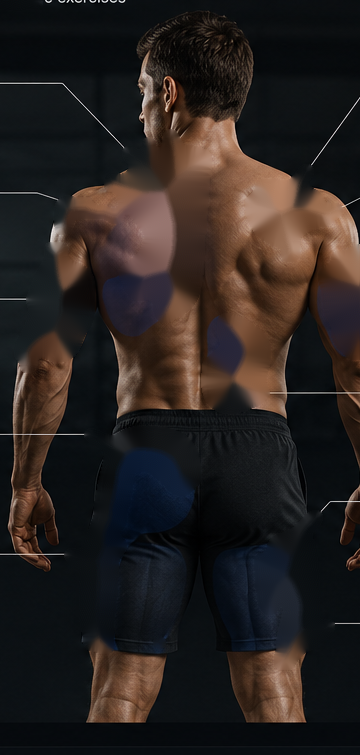
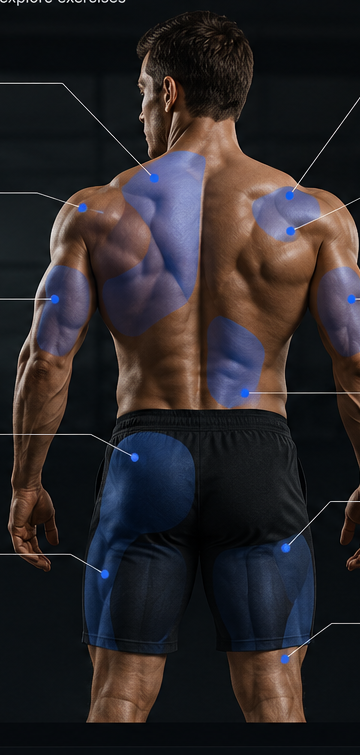
Add files via upload

diff --git a/app/page.jsx b/app/page.jsx
@@ -1,0 +1,119 @@
+'use client';
+import Link from 'next/link';
+import { useMemo, useState } from 'react';
+import { asset, exercises, exercisesByMuscle, muscleById, muscles } from '../data/content';
+
+const nav = [
+  {href:'/', label:'בית', icon:'⌂', active:true},
+  {href:'/exercises', label:'תרגילים', icon:'◧'},
+  {href:'/warmup', label:'חימום', icon:'◷'},
+  {href:'#progress', label:'התקדמות', icon:'▥'},
+  {href:'#profile', label:'פרופיל', icon:'○'}
+];
+
+const frontRegions = [
+  { id:'chest', color:'#ef4444', d:'M156 284 C176 250 201 239 221 243 C250 247 272 269 279 303 C286 339 259 363 222 368 C185 371 153 352 146 324 C143 308 147 295 156 284 Z M222 243 C204 255 194 279 191 309 C189 333 198 353 222 368 C246 354 253 332 251 307 C249 278 240 255 222 243 Z' },
+  { id:'shoulders', color:'#38bdf8', d:'M95 271 C96 247 118 225 145 216 C160 212 174 225 181 244 C170 267 165 291 151 304 C128 309 105 297 95 271 Z M258 246 C265 226 281 213 300 218 C326 225 352 248 362 273 C351 298 329 310 306 304 C292 292 282 267 258 246 Z' },
+  { id:'biceps', color:'#a855f7', d:'M83 306 C104 301 126 311 134 331 C143 358 144 393 132 417 C121 438 101 452 86 439 C69 421 66 388 72 359 C76 338 77 321 83 306 Z M350 306 C329 301 307 311 299 331 C290 358 289 393 301 417 C312 438 332 452 347 439 C364 421 367 388 361 359 C357 338 356 321 350 306 Z' },
+  { id:'triceps', color:'#f97316', d:'M129 314 C147 330 154 367 149 400 C146 420 134 438 116 446 C129 412 127 361 116 321 C120 316 124 314 129 314 Z M304 314 C286 330 279 367 284 400 C287 420 299 438 317 446 C304 412 306 361 317 321 C313 316 309 314 304 314 Z' },
+  { id:'abs', color:'#facc15', d:'M187 357 C208 365 230 365 250 357 C260 398 263 453 264 504 C251 526 236 543 219 553 C200 543 184 526 172 504 C172 452 176 397 187 357 Z M199 378 L239 378 M194 421 L245 421 M190 464 L249 464' },
+  { id:'quads', color:'#22c55e', d:'M139 584 C162 575 190 574 210 580 C216 631 216 699 205 750 C191 765 170 771 151 762 C134 719 129 641 139 584 Z M225 580 C246 574 274 575 296 584 C307 641 302 719 284 762 C266 771 244 765 230 750 C220 699 219 631 225 580 Z' },
+  { id:'calves', color:'#14b8a6', d:'M146 758 C166 752 189 752 204 760 C200 817 199 883 190 932 C172 941 151 938 137 925 C126 873 131 809 146 758 Z M231 760 C246 752 269 752 289 758 C304 809 309 873 298 925 C284 938 263 941 245 932 C236 883 235 817 231 760 Z' }
+];
+
+const backRegions = [
+  { id:'back', color:'#22c55e', d:'M132 96 C151 75 171 65 181 65 C194 65 216 77 230 98 C222 124 218 148 222 167 C246 199 258 261 254 320 C250 365 226 411 181 446 C136 411 111 365 106 320 C101 260 114 199 139 167 C143 145 140 123 132 96 Z' },
+  { id:'lats', color:'#06b6d4', d:'M73 186 C94 169 117 160 137 163 C150 202 153 279 142 340 C130 363 113 383 94 398 C71 370 64 323 66 273 C67 235 67 206 73 186 Z M288 186 C267 169 244 160 224 163 C211 202 208 279 219 340 C231 363 248 383 267 398 C290 370 297 323 295 273 C294 235 294 206 288 186 Z' },
+  { id:'glutes', color:'#f97316', d:'M108 426 C131 413 162 421 181 449 C199 421 230 413 253 426 C265 459 263 496 250 518 C226 539 197 551 181 552 C164 551 135 539 111 518 C98 496 96 459 108 426 Z' },
+  { id:'hamstrings', color:'#a855f7', d:'M101 520 C125 524 156 536 176 548 C177 604 173 671 166 705 C152 725 127 737 108 724 C92 677 90 594 101 520 Z M260 520 C236 524 205 536 185 548 C184 604 188 671 195 705 C209 725 234 737 253 724 C269 677 271 594 260 520 Z' },
+  { id:'calves', color:'#14b8a6', d:'M108 720 C126 710 151 703 170 705 C166 721 164 738 160 752 C144 763 125 760 111 746 C105 738 104 729 108 720 Z M253 720 C235 710 210 703 191 705 C195 721 197 738 201 752 C217 763 236 760 250 746 C256 738 257 729 253 720 Z' }
+];
+
+function BodyMap({ side, selected, setSelected }) {
+  const regions = side === 'front' ? frontRegions : backRegions;
+  const viewBox = side === 'front' ? '0 0 435 1030' : '0 0 360 755';
+  const img = side === 'front' ? '/body-front.png' : '/body-back.png';
+
+  return (
+    <div className={`body-wrap ${side}`}>
+      <img className="body-photo" src={asset(img)} alt={side === 'front' ? 'מפת שרירים קדמית' : 'מפת שרירים אחורית'} />
+      <svg className="body-overlay anatomy-overlay" viewBox={viewBox} preserveAspectRatio="xMidYMid meet" aria-label="מפת שרירים לחיצה">
+        {regions.map((r, index) => {
+          const isActive = selected === r.id;
+          return (
+            <path
+              key={`${r.id}-${index}`}
+              d={r.d}
+              fill={isActive ? `${r.color}cc` : `${r.color}70`}
+              stroke={isActive ? '#ffffff' : r.color}
+              strokeWidth={isActive ? 5 : 2.25}
+              className={`muscle-region anatomy-region ${isActive ? 'active' : ''}`}
+              onClick={() => setSelected(r.id)}
+            />
+          );
+        })}
+      </svg>
+    </div>
+  );
+}
+
+export default function HomePage(){
+  const [side, setSide] = useState('front');
+  const [selected, setSelected] = useState('chest');
+  const selectedMuscle = muscleById(selected) || muscles[0];
+  const list = useMemo(() => exercisesByMuscle(selected).slice(0, 5), [selected]);
+  const hero = list[0] || exercises[0];
+
+  const switchSide = (value) => {
+    setSide(value);
+    setSelected(value === 'front' ? 'chest' : 'back');
+  };
+
+  return (
+    <main className="mobile-app">
+      <header className="appbar">
+        <div className="brand logo-brand">
+          <img src={asset('/oc-planche-logo.png')} alt="Osher Calisthenics" />
+          <div><b>OSHER</b><small>CALISTHENICS</small></div>
+        </div>
+        <div className="stats"><b>🔥 12</b><b>⬢ 1,250</b></div>
+      </header>
+
+      <section className="hero-card blue-hero">
+        <div><small>Own Your Strength</small><h1>בחר שריר<br/>והתחל אימון</h1></div>
+        <Link href="/exercises">ספריית תרגילים</Link>
+      </section>
+
+      <section className="map-card">
+        <div className="card-head">
+          <div><h2>מפת השרירים</h2><p>לחץ על אזור שריר צבעוני כדי לראות תרגילים מתאימים.</p></div>
+          <div className="seg"><button className={side==='front'?'on':''} onClick={()=>switchSide('front')}>קדמי</button><button className={side==='back'?'on':''} onClick={()=>switchSide('back')}>אחורי</button></div>
+        </div>
+        <BodyMap side={side} selected={selected} setSelected={setSelected} />
+      </section>
+
+      <section className="sheet-card" style={{'--accent': selectedMuscle.color}}>
+        <div className="handle" />
+        <div className="sheet-title"><div><small>אזור נבחר</small><h2>{selectedMuscle.name}</h2></div><span>{list.length} תרגילים</span></div>
+        <p>{selectedMuscle.description}</p>
+        <div className="exercise-list compact">
+          {list.map(ex => <Link key={ex.id} href={`/exercises/${ex.id}`} className="exercise-row">
+            <img src={asset(ex.image)} alt={ex.name}/>
+            <div><b>{ex.name}</b><small>{ex.short}</small></div>
+            <em>{ex.difficulty}</em>
+          </Link>)}
+        </div>
+        <Link className="primary-btn" href="/exercises">הצג את כל התרגילים</Link>
+      </section>
+
+      <section className="featured-card">
+        <img src={asset(hero.image)} alt={hero.name}/>
+        <div><small>תרגיל מומלץ</small><h3>{hero.name}</h3><p>{hero.short}</p></div>
+      </section>
+
+      <nav className="bottom-nav">
+        {nav.map(item => <Link key={item.label} href={item.href} className={item.active?'active':''}><span>{item.icon}</span><small>{item.label}</small></Link>)}
+      </nav>
+    </main>
+  );
+}

diff --git a/data/content.js b/data/content.js
@@ -2,7 +2,7 @@ export const asset = (path) => path;
 
 export const muscles = [
   { id:'chest', name:'חזה', latin:'Pectorals', side:'front', color:'#ef4444', description:'תרגילי דחיפה לחזה, יד אחורית וכתפיים.' },
-  { id:'shoulders', name:'כתפיים', latin:'Deltoids', side:'front', color:'#38bdf8', description:'חיזוק כתפיים, יציבות ודחיפה מעל הראש.' },
+  { id:'shoulders', name:'כתפיים', latin:'Deltoids', side:'front', color:'#3b82f6', description:'חיזוק כתפיים, יציבות ודחיפה מעל הראש.' },
   { id:'triceps', name:'יד אחורית', latin:'Triceps', side:'front', color:'#f97316', description:'תרגילים לנעילת מרפקים ודחיפה חזקה.' },
   { id:'biceps', name:'יד קדמית', latin:'Biceps', side:'front', color:'#a855f7', description:'תרגילי משיכה וכוח ביד קדמית.' },
   { id:'abs', name:'בטן', latin:'Abdominals', side:'front', color:'#facc15', description:'ליבה, יציבות ושליטה בגוף.' },
@@ -15,34 +15,28 @@ export const muscles = [
 ];
 
 const img = (id) => `/exercises/${id}.jpg`;
+const vid = (id) => `/videos/${id}.mp4`;
 
 export const exercises = [
-  { id:'push-up', name:'שכיבות סמיכה', muscle:'chest', secondary:['triceps','shoulders'], difficulty:'מתחיל', equipment:'ללא ציוד', image:img('push-up'), short:'תרגיל בסיסי לחיזוק החזה, היד האחורית והכתפיים.', instructions:['מקם ידיים מעט רחב מרוחב הכתפיים.','שמור על גוף ישר מהראש עד העקבים.','רד בשליטה עד שהחזה קרוב לרצפה.','דחוף חזרה למעלה בלי לשקוע באגן.'], mistakes:['אגן נמוך מדי','מרפקים פתוחים מדי','טווח תנועה חלקי'] },
-  { id:'incline-push-up', name:'שכיבות סמיכה בשיפוע', muscle:'chest', secondary:['triceps','shoulders'], difficulty:'מתחיל', equipment:'ספסל / מדרגה', image:img('incline-push-up'), short:'גרסה קלה יותר לשכיבות סמיכה, מושלמת למתחילים.', instructions:['הנח ידיים על משטח מוגבה.','שמור על קו גוף ישר.','רד בשליטה עד שהחזה קרוב למשטח.'], mistakes:['כיפוף גב','חוסר שליטה בירידה'] },
-  { id:'decline-push-up', name:'שכיבות סמיכה בירידה', muscle:'chest', secondary:['shoulders','triceps'], difficulty:'בינוני', equipment:'ספסל / מדרגה', image:img('decline-push-up'), short:'וריאציה שמעמיסה יותר על החזה העליון והכתפיים.', instructions:['הנח רגליים על משטח מוגבה.','מקם ידיים מעט רחב מהכתפיים.','רד בשליטה.'], mistakes:['שקיעת אגן','נעילת מרפקים חזקה מדי'] },
-  { id:'diamond-push-up', name:'שכיבות סמיכה יהלום', muscle:'triceps', secondary:['chest','shoulders'], difficulty:'בינוני', equipment:'ללא ציוד', image:img('diamond-push-up'), short:'דגש חזק על היד האחורית ונעילת מרפקים.', instructions:['קרב כפות ידיים לצורת יהלום.','שמור מרפקים קרובים לגוף.','רד בשליטה.'], mistakes:['עומס על מפרקי הידיים','פתיחת מרפקים'] },
-  { id:'wide-push-up', name:'שכיבות סמיכה רחבות', muscle:'chest', secondary:['shoulders'], difficulty:'בינוני', equipment:'ללא ציוד', image:img('wide-push-up'), short:'וריאציה שמדגישה יותר את החזה.', instructions:['מקם ידיים רחב מהכתפיים.','שמור גוף ישר.','רד בשליטה.'], mistakes:['ידיים רחבות מדי','כתפיים מתוחות מדי'] },
-  { id:'dips', name:'מקבילים', muscle:'triceps', secondary:['chest','shoulders'], difficulty:'בינוני', equipment:'מקבילים', image:img('dips'), short:'תרגיל חזק לחזה, כתפיים ויד אחורית.', instructions:['אחוז במקבילים ויישר ידיים.','רד עד כיפוף נוח במרפקים.','דחוף חזרה למעלה.'], mistakes:['ירידה עמוקה מדי','כתפיים קורסות'] },
-  { id:'pike-push-up', name:'פייק פוש אפ', muscle:'shoulders', secondary:['triceps'], difficulty:'בינוני', equipment:'ללא ציוד', image:img('pike-push-up'), short:'תרגיל כתפיים כהכנה לעמידת ידיים.', instructions:['הרם אגן למעלה.','העבר משקל לכתפיים.','רד עם הראש לכיוון הרצפה.'], mistakes:['גב עגול','מרפקים פתוחים'] },
-  { id:'pseudo-planche', name:'פסאודו פלאנץ׳', muscle:'chest', secondary:['shoulders','triceps','abs'], difficulty:'מתקדם', equipment:'ללא ציוד', image:img('pseudo-planche'), short:'דחיפה מתקדמת להכנה לפלאנץ׳.', instructions:['העבר כתפיים קדימה מעל הידיים.','שמור גוף ישר.','בצע ירידה קצרה ומבוקרת.'], mistakes:['העברת משקל לא מספיקה','שקיעת אגן'] },
-  { id:'archer-push-up', name:'שכיבות סמיכה קשת', muscle:'chest', secondary:['triceps','shoulders'], difficulty:'מתקדם', equipment:'ללא ציוד', image:img('archer-push-up'), short:'שלב מתקדם בדרך לשכיבה ביד אחת.', instructions:['פתח ידיים רחב.','העבר משקל לצד אחד.','שמור יד שנייה כמעט ישרה.'], mistakes:['תנועה מהירה מדי','קריסת כתף'] },
-  { id:'pull-up', name:'מתח', muscle:'back', secondary:['biceps','lats'], difficulty:'בינוני', equipment:'מוט מתח', image:img('pull-up'), short:'תרגיל בסיסי לגב וליד קדמית.', instructions:['אחוז במוט מעט רחב מהכתפיים.','משוך חזה לכיוון המוט.','רד בשליטה לתלייה מלאה.'], mistakes:['שימוש בתנופה','חצי טווח תנועה'] },
-  { id:'australian-pull-up', name:'חתירה אוסטרלית', muscle:'back', secondary:['biceps','lats'], difficulty:'מתחיל', equipment:'מוט מתח', image:img('australian-pull-up'), short:'תרגיל משיכה מצוין למתחילים.', instructions:['שכב מתחת למוט נמוך.','שמור גוף ישר.','משוך חזה למוט.'], mistakes:['אגן נמוך','משיכה קצרה'] },
-  { id:'chin-up', name:'מתח בסופינציה', muscle:'biceps', secondary:['back','lats'], difficulty:'בינוני', equipment:'מוט מתח', image:img('chin-up'), short:'מתח עם דגש חזק יותר על יד קדמית.', instructions:['אחוז כשהכפות פונות אליך.','משוך את הגוף למעלה.','רד בשליטה.'], mistakes:['תנופה','כתפיים מכווצות'] },
-  { id:'bodyweight-row', name:'חתירה במשקל גוף', muscle:'back', secondary:['biceps'], difficulty:'מתחיל', equipment:'מוט נמוך / טבעות', image:img('bodyweight-row'), short:'חיזוק גב ושכמות.', instructions:['החזק גוף ישר.','משוך חזה לידיים.','כווץ שכמות בסוף התנועה.'], mistakes:['משיכה עם צוואר','אגן צונח'] },
-  { id:'negative-pull-up', name:'מתח שלילי', muscle:'back', secondary:['biceps','lats'], difficulty:'מתחיל', equipment:'מוט מתח', image:img('negative-pull-up'), short:'דרך יעילה לבנות כוח למתח ראשון.', instructions:['קפוץ או עלה למצב עליון.','רד לאט במשך 3–5 שניות.','חזור למעלה בעזרת קפיצה.'], mistakes:['ירידה מהירה מדי','חוסר שליטה'] },
-  { id:'dead-hang', name:'תלייה פסיבית', muscle:'back', secondary:['lats'], difficulty:'מתחיל', equipment:'מוט מתח', image:img('dead-hang'), short:'שיפור אחיזה, כתפיים והכנה למתח.', instructions:['אחוז במוט.','תלה את הגוף בצורה רגועה.','שמור כתפיים פעילות קלות.'], mistakes:['כאב כתפיים','אחיזה חלשה מדי'] },
-  { id:'face-pull', name:'משיכת פנים', muscle:'back', secondary:['shoulders'], difficulty:'בינוני', equipment:'גומייה / טבעות', image:img('face-pull'), short:'חיזוק שכמות וכתף אחורית.', instructions:['אחוז בגומייה.','משוך לכיוון הפנים.','כווץ שכמות.'], mistakes:['מרפקים נמוכים מדי','משיכה עם גב תחתון'] },
-  { id:'plank', name:'פלאנק', muscle:'abs', secondary:['shoulders'], difficulty:'מתחיל', equipment:'ללא ציוד', image:img('plank'), short:'תרגיל בסיסי לליבה ויציבות.', instructions:['מרפקים מתחת לכתפיים.','כווץ בטן וישבן.','שמור גוף ישר.'], mistakes:['אגן גבוה מדי','אגן נמוך מדי'] },
-  { id:'hollow-hold', name:'הולו הולד', muscle:'abs', secondary:[], difficulty:'בינוני', equipment:'ללא ציוד', image:img('hollow-hold'), short:'תרגיל שליטה לגוף חלול.', instructions:['שכב על הגב.','הרם שכמות ורגליים.','הצמד גב תחתון לרצפה.'], mistakes:['גב תחתון מתנתק','עצירת נשימה'] },
-  { id:'leg-raises', name:'הרמות רגליים', muscle:'abs', secondary:[], difficulty:'בינוני', equipment:'ללא ציוד', image:img('leg-raises'), short:'חיזוק בטן תחתונה ושליטה באגן.', instructions:['שכב על הגב.','הרם רגליים בשליטה.','הורד בלי להקשית גב.'], mistakes:['תנופה','כאב גב תחתון'] },
-  { id:'squat', name:'סקוואט', muscle:'quads', secondary:['glutes','hamstrings'], difficulty:'מתחיל', equipment:'ללא ציוד', image:img('squat'), short:'תרגיל בסיסי לרגליים.', instructions:['עמוד ברוחב כתפיים.','שלח אגן לאחור.','רד ושמור ברכיים בכיוון האצבעות.'], mistakes:['ברכיים קורסות פנימה','עקבים מתרוממים'] },
-  { id:'lunge', name:'לאנג׳', muscle:'quads', secondary:['glutes','hamstrings'], difficulty:'מתחיל', equipment:'ללא ציוד', image:img('lunge'), short:'תרגיל חד־צדדי לרגליים.', instructions:['צעד קדימה.','רד עד כיפוף נוח.','חזור דרך הרגל הקדמית.'], mistakes:['צעד קצר מדי','ברך קורסת פנימה'] },
-  { id:'bulgarian-squat', name:'סקוואט בולגרי', muscle:'quads', secondary:['glutes','hamstrings'], difficulty:'בינוני', equipment:'ספסל / כיסא', image:img('bulgarian-squat'), short:'תרגיל רגליים חד־צדדי מאתגר.', instructions:['הנח רגל אחורית על ספסל.','רד בשליטה.','דחוף דרך הרגל הקדמית.'], mistakes:['צעד קצר מדי','ברך נופלת פנימה'] },
-  { id:'calf-raise', name:'עליות תאומים', muscle:'calves', secondary:[], difficulty:'מתחיל', equipment:'ללא ציוד', image:img('calf-raise'), short:'חיזוק תאומים וקרסול.', instructions:['עמוד ישר.','עלה לקצות האצבעות.','רד בשליטה.'], mistakes:['תנועה מהירה','טווח קצר'] },
-  { id:'glute-bridge', name:'גשר ישבן', muscle:'glutes', secondary:['hamstrings'], difficulty:'מתחיל', equipment:'ללא ציוד', image:img('glute-bridge'), short:'הפעלת ישבן ושרשרת אחורית.', instructions:['שכב על הגב.','כופף ברכיים.','הרם אגן וכווץ ישבן.'], mistakes:['הקשת גב','דחיפה מהגב במקום מהישבן'] },
-  { id:'superman', name:'סופרמן', muscle:'back', secondary:['glutes'], difficulty:'מתחיל', equipment:'ללא ציוד', image:img('superman'), short:'חיזוק גב תחתון ושרירי יציבה.', instructions:['שכב על הבטן.','הרם ידיים ורגליים.','החזק קצר וחזור.'], mistakes:['הרמה גבוהה מדי','לחץ בצוואר'] },
-  { id:'handstand-hold', name:'החזקת עמידת ידיים', muscle:'shoulders', secondary:['abs','triceps'], difficulty:'מתקדם', equipment:'קיר', image:img('handstand-hold'), short:'תרגיל שליטה וכתפיים.', instructions:['היכנס לעמידת ידיים מול קיר.','דחוף את הרצפה.','שמור גוף ארוך ומתוח.'], mistakes:['גב מקושת','כתפיים רפויות'] }
+  { id:'push-up', name:'שכיבות סמיכה', muscle:'chest', secondary:['triceps','shoulders'], difficulty:'מתחיל', equipment:'ללא ציוד', image:img('push-up'), video:vid('push-up'), short:'תרגיל בסיסי לחיזוק החזה, היד האחורית והכתפיים.', instructions:['מקם ידיים מעט רחב מרוחב הכתפיים.','שמור על גוף ישר מהראש עד העקבים.','רד בשליטה עד שהחזה קרוב לרצפה.','דחוף חזרה למעלה בלי לשקוע באגן.'], mistakes:['אגן נמוך מדי','מרפקים פתוחים מדי','טווח תנועה חלקי'] },
+  { id:'incline-push-up', name:'שכיבות סמיכה בשיפוע', muscle:'chest', secondary:['triceps','shoulders'], difficulty:'מתחיל', equipment:'ספסל / מדרגה', image:img('incline-push-up'), video:vid('incline-push-up'), short:'גרסה קלה יותר לשכיבות סמיכה, מושלמת למתחילים.', instructions:['הנח ידיים על משטח מוגבה.','שמור על קו גוף ישר.','רד בשליטה עד שהחזה קרוב למשטח.'], mistakes:['כיפוף גב','חוסר שליטה בירידה'] },
+  { id:'decline-push-up', name:'שכיבות סמיכה בירידה', muscle:'chest', secondary:['shoulders','triceps'], difficulty:'בינוני', equipment:'ספסל / מדרגה', image:img('decline-push-up'), video:vid('decline-push-up'), short:'וריאציה שמעמיסה יותר על החזה העליון והכתפיים.', instructions:['הנח רגליים על משטח מוגבה.','מקם ידיים מעט רחב מהכתפיים.','רד בשליטה.'], mistakes:['שקיעת אגן','נעילת מרפקים חזקה מדי'] },
+  { id:'diamond-push-up', name:'שכיבות סמיכה יהלום', muscle:'triceps', secondary:['chest','shoulders'], difficulty:'בינוני', equipment:'ללא ציוד', image:img('diamond-push-up'), video:vid('diamond-push-up'), short:'דגש חזק על היד האחורית ונעילת מרפקים.', instructions:['קרב כפות ידיים לצורת יהלום.','שמור מרפקים קרובים לגוף.','רד בשליטה.'], mistakes:['עומס על מפרקי הידיים','פתיחת מרפקים'] },
+  { id:'wide-push-up', name:'שכיבות סמיכה רחבות', muscle:'chest', secondary:['shoulders'], difficulty:'בינוני', equipment:'ללא ציוד', image:img('wide-push-up'), video:vid('wide-push-up'), short:'וריאציה שמדגישה יותר את החזה.', instructions:['מקם ידיים רחב מהכתפיים.','שמור גוף ישר.','רד בשליטה.'], mistakes:['ידיים רחבות מדי','כתפיים מתוחות מדי'] },
+  { id:'dips', name:'מקבילים', muscle:'triceps', secondary:['chest','shoulders'], difficulty:'בינוני', equipment:'מקבילים', image:img('dips'), video:vid('dips'), short:'תרגיל חזק לחזה, כתפיים ויד אחורית.', instructions:['אחוז במקבילים ויישר ידיים.','רד עד כיפוף נוח במרפקים.','דחוף חזרה למעלה.'], mistakes:['ירידה עמוקה מדי','כתפיים קורסות'] },
+  { id:'pike-push-up', name:'פייק פוש אפ', muscle:'shoulders', secondary:['triceps'], difficulty:'בינוני', equipment:'ללא ציוד', image:img('pike-push-up'), video:vid('pike-push-up'), short:'תרגיל כתפיים כהכנה לעמידת ידיים.', instructions:['הרם אגן למעלה.','העבר משקל לכתפיים.','רד עם הראש לכיוון הרצפה.'], mistakes:['גב עגול','מרפקים פתוחים'] },
+  { id:'pseudo-planche', name:'פסאודו פלאנץ׳', muscle:'chest', secondary:['shoulders','triceps','abs'], difficulty:'מתקדם', equipment:'ללא ציוד', image:img('pseudo-planche'), video:vid('pseudo-planche'), short:'דחיפה מתקדמת להכנה לפלאנץ׳.', instructions:['העבר כתפיים קדימה מעל הידיים.','שמור גוף ישר.','בצע ירידה קצרה ומבוקרת.'], mistakes:['העברת משקל לא מספיקה','שקיעת אגן'] },
+  { id:'archer-push-up', name:'שכיבות סמיכה קשת', muscle:'chest', secondary:['triceps','shoulders'], difficulty:'מתקדם', equipment:'ללא ציוד', image:img('archer-push-up'), video:vid('archer-push-up'), short:'שלב מתקדם בדרך לשכיבה ביד אחת.', instructions:['פתח ידיים רחב.','העבר משקל לצד אחד.','שמור יד שנייה כמעט ישרה.'], mistakes:['תנועה מהירה מדי','קריסת כתף'] },
+  { id:'pull-up', name:'מתח', muscle:'back', secondary:['biceps','lats'], difficulty:'בינוני', equipment:'מוט מתח', image:img('pull-up'), video:vid('pull-up'), short:'תרגיל בסיסי לגב וליד קדמית.', instructions:['אחוז במוט מעט רחב מהכתפיים.','משוך חזה לכיוון המוט.','רד בשליטה לתלייה מלאה.'], mistakes:['שימוש בתנופה','חצי טווח תנועה'] },
+  { id:'australian-pull-up', name:'חתירה אוסטרלית', muscle:'back', secondary:['biceps','lats'], difficulty:'מתחיל', equipment:'מוט מתח', image:img('australian-pull-up'), video:vid('australian-pull-up'), short:'תרגיל משיכה מצוין למתחילים.', instructions:['שכב מתחת למוט נמוך.','שמור גוף ישר.','משוך חזה למוט.'], mistakes:['אגן נמוך','משיכה קצרה'] },
+  { id:'chin-up', name:'מתח בסופינציה', muscle:'biceps', secondary:['back','lats'], difficulty:'בינוני', equipment:'מוט מתח', image:img('chin-up'), video:vid('chin-up'), short:'מתח עם דגש חזק יותר על יד קדמית.', instructions:['אחוז כשהכפות פונות אליך.','משוך את הגוף למעלה.','רד בשליטה.'], mistakes:['תנופה','כתפיים מכווצות'] },
+  { id:'plank', name:'פלאנק', muscle:'abs', secondary:['shoulders'], difficulty:'מתחיל', equipment:'ללא ציוד', image:img('plank'), video:vid('plank'), short:'תרגיל בסיסי לליבה ויציבות.', instructions:['מרפקים מתחת לכתפיים.','כווץ בטן וישבן.','שמור גוף ישר.'], mistakes:['אגן גבוה מדי','אגן נמוך מדי'] },
+  { id:'squat', name:'סקוואט', muscle:'quads', secondary:['glutes','hamstrings'], difficulty:'מתחיל', equipment:'ללא ציוד', image:img('squat'), video:vid('squat'), short:'תרגיל בסיסי לרגליים.', instructions:['עמוד ברוחב כתפיים.','שלח אגן לאחור.','רד ושמור ברכיים בכיוון האצבעות.'], mistakes:['ברכיים קורסות פנימה','עקבים מתרוממים'] },
+  { id:'lunge', name:'לאנג׳', muscle:'quads', secondary:['glutes','hamstrings'], difficulty:'מתחיל', equipment:'ללא ציוד', image:img('lunge'), video:vid('lunge'), short:'תרגיל חד־צדדי לרגליים.', instructions:['צעד קדימה.','רד עד כיפוף נוח.','חזור דרך הרגל הקדמית.'], mistakes:['צעד קצר מדי','ברך קורסת פנימה'] },
+  { id:'calf-raise', name:'עליות תאומים', muscle:'calves', secondary:[], difficulty:'מתחיל', equipment:'ללא ציוד', image:img('calf-raise'), video:vid('calf-raise'), short:'חיזוק תאומים וקרסול.', instructions:['עמוד ישר.','עלה לקצות האצבעות.','רד בשליטה.'], mistakes:['תנועה מהירה','טווח קצר'] },
+  { id:'glute-bridge', name:'גשר ישבן', muscle:'glutes', secondary:['hamstrings'], difficulty:'מתחיל', equipment:'ללא ציוד', image:img('glute-bridge'), video:vid('glute-bridge'), short:'הפעלת ישבן ושרשרת אחורית.', instructions:['שכב על הגב.','כופף ברכיים.','הרם אגן וכווץ ישבן.'], mistakes:['הקשת גב','דחיפה מהגב במקום מהישבן'] },
+  { id:'superman', name:'סופרמן', muscle:'back', secondary:['glutes'], difficulty:'מתחיל', equipment:'ללא ציוד', image:img('superman'), video:vid('superman'), short:'חיזוק גב תחתון ושרירי יציבה.', instructions:['שכב על הבטן.','הרם ידיים ורגליים.','החזק קצר וחזור.'], mistakes:['הרמה גבוהה מדי','לחץ בצוואר'] },
+  { id:'handstand-hold', name:'החזקת עמידת ידיים', muscle:'shoulders', secondary:['abs','triceps'], difficulty:'מתקדם', equipment:'קיר', image:img('handstand-hold'), video:vid('handstand-hold'), short:'תרגיל שליטה וכתפיים.', instructions:['היכנס לעמידת ידיים מול קיר.','דחוף את הרצפה.','שמור גוף ארוך ומתוח.'], mistakes:['גב מקושת','כתפיים רפויות'] }
 ];
 
 export const exercisesByMuscle = (muscle) => exercises.filter(e => e.muscle === muscle || e.secondary.includes(muscle));

diff --git a/app/exercises/page.jsx b/app/exercises/page.jsx
@@ -1,0 +1,35 @@
+'use client';
+
+import Link from 'next/link';
+import { useMemo, useState } from 'react';
+import { asset, exercises, muscles } from '../../data/content';
+
+const nav = [
+  {href:'/',label:'בית',icon:'🏠'},
+  {href:'/exercises',label:'תרגילים',icon:'💪',active:true},
+  {href:'/warmup',label:'חימום',icon:'⏱️'},
+  {href:'#progress',label:'התקדמות',icon:'📈'},
+  {href:'#profile',label:'פרופיל',icon:'👤'}
+];
+
+export default function ExercisesPage(){
+  const [q,setQ]=useState('');
+  const [muscle,setMuscle]=useState('all');
+  const filtered=useMemo(()=>exercises.filter(e=>{
+    const s=q.trim();
+    return (!s || `${e.name} ${e.short} ${e.equipment}`.includes(s)) && (muscle==='all' || e.muscle===muscle || e.secondary.includes(muscle));
+  }),[q,muscle]);
+
+  return <main className="exercise-page">
+    <header className="page-head"><Link href="/" className="back">‹</Link><div><h1>תרגילים</h1><p>בחר תרגיל, קרא הסבר קצר ופתח עמוד פירוט.</p></div></header>
+    <div className="search"><input value={q} onChange={e=>setQ(e.target.value)} placeholder="חיפוש תרגיל..." /></div>
+    <div className="chips"><button className={muscle==='all'?'on':''} onClick={()=>setMuscle('all')}>הכל</button>{muscles.map(m=><button key={m.id} className={muscle===m.id?'on':''} onClick={()=>setMuscle(m.id)}>{m.name}</button>)}</div>
+    <section className="exercise-list-page">
+      {filtered.map(ex=><Link key={ex.id} href={`/exercises/${ex.id}`} className="exercise-compact-card">
+        <img src={asset(ex.image)} alt={ex.name}/>
+        <div className="exercise-copy"><div className="exercise-title-line"><h2>{ex.name}</h2><span>{ex.difficulty}</span></div><p>{ex.short}</p><small>{ex.equipment}</small></div>
+      </Link>)}
+    </section>
+    <nav className="bottom-nav">{nav.map(item => <Link key={item.label} href={item.href} className={item.active?'active':''}><span>{item.icon}</span><small>{item.label}</small></Link>)}</nav>
+  </main>
+}

diff --git a/app/exercises/[id]/page.jsx b/app/exercises/[id]/page.jsx
@@ -1,0 +1,19 @@
+import Link from 'next/link';
+import { asset, exercises, getExercise, muscles } from '../../../data/content';
+
+export function generateStaticParams(){return exercises.map(e=>({id:e.id}))}
+
+export default async function ExerciseDetails({params}){
+  const {id}=await params;
+  const ex=getExercise(id)||exercises[0];
+  const primary=muscles.find(m=>m.id===ex.muscle)?.name||'';
+  const secondary=ex.secondary.map(id=>muscles.find(m=>m.id===id)?.name).filter(Boolean).join(' • ');
+  return <main className="detail-page">
+    <header className="page-head"><Link href="/exercises" className="back">‹</Link><div><h1>{ex.name}</h1><p>{primary}{secondary?` • ${secondary}`:''}</p></div></header>
+    <section className="video-card"><video controls playsInline preload="metadata" poster={asset(ex.image)} src={asset(ex.video||'')} /><div><span>{ex.difficulty}</span><span>{ex.equipment}</span></div></section>
+    <section className="content-card"><h2>על התרגיל</h2><p>{ex.short}</p></section>
+    <section className="content-card"><h2>אופן ביצוע</h2><ol>{ex.instructions.map((i,n)=><li key={n}>{i}</li>)}</ol></section>
+    <section className="content-card danger"><h2>טעויות נפוצות</h2><ul>{ex.mistakes.map((i,n)=><li key={n}>{i}</li>)}</ul></section>
+    <Link href="/" className="primary-btn sticky">חזרה לבית</Link>
+  </main>
+}

diff --git a/app/layout.jsx b/app/layout.jsx
@@ -1,0 +1,10 @@
+import './globals.css';
+
+export const metadata = {
+  title: 'Osher Calisthenics',
+  description: 'אפליקציית קליסטניקס בעברית'
+};
+
+export default function RootLayout({ children }) {
+  return <html lang="he" dir="rtl"><body>{children}</body></html>;
+}

diff --git a/app/globals.css b/app/globals.css
@@ -1,4 +1,7 @@
-*{box-sizing:border-box} html{direction:rtl} body{margin:0;background:#050b14;color:#fff;font-family:Arial,'Helvetica Neue',sans-serif} a{color:inherit;text-decoration:none} button{font-family:inherit}
-.mobile-app,.page-shell{min-height:100svh;background:radial-gradient(circle at top,#10213a 0,#050b14 52%,#03070c 100%);padding:18px 14px 94px;max-width:520px;margin:0 auto;overflow-x:hidden}.appbar{display:flex;align-items:center;justify-content:space-between;margin:2px 0 16px}.brand{display:flex;align-items:center;gap:10px}.brand span{width:42px;height:42px;border-radius:14px;background:linear-gradient(135deg,#39ff14,#0b66ff);display:grid;place-items:center;font-weight:900;color:#00130a}.brand b{display:block;font-size:18px}.brand small{display:block;font-size:10px;color:#9fb1c9;letter-spacing:1.5px}.stats{display:flex;gap:12px;align-items:center;color:#dbeafe}.hero-card,.map-card,.sheet-card,.featured-card,.exercise-card,.info-card,.timer-card{background:rgba(9,18,31,.9);border:1px solid rgba(91,122,162,.25);box-shadow:0 20px 60px rgba(0,0,0,.25);border-radius:28px}.hero-card{padding:22px;display:flex;align-items:center;justify-content:space-between;margin-bottom:14px}.hero-card small{color:#39ff14}.hero-card h1{margin:5px 0 0;font-size:28px;line-height:1.12}.hero-card a{background:#39ff14;color:#03100a;border-radius:16px;padding:12px 14px;font-weight:800}.map-card{padding:16px;margin-bottom:14px}.card-head{display:flex;justify-content:space-between;gap:12px;align-items:flex-start}.card-head h2{font-size:26px;margin:0}.card-head p{margin:6px 0 0;color:#9fb1c9;line-height:1.45}.seg{display:flex;background:#111c2b;border:1px solid rgba(255,255,255,.12);border-radius:16px;padding:4px;direction:ltr}.seg button{border:0;background:transparent;color:#aab8ca;padding:9px 14px;border-radius:12px;font-weight:700}.seg .on{background:#39ff14;color:#041006}.body-wrap{position:relative;margin:14px auto 0;width:min(100%,340px);line-height:0}.body-photo{display:block;width:100%;height:auto;border-radius:20px;object-fit:contain;background:#07111d}.body-overlay{position:absolute;inset:0;width:100%;height:100%;pointer-events:none}.muscle-region{pointer-events:auto;cursor:pointer;mix-blend-mode:screen;transition:.18s ease;filter:drop-shadow(0 0 7px rgba(255,255,255,.16))}.muscle-region:hover{opacity:.95;filter:drop-shadow(0 0 12px rgba(57,255,20,.45))}.sheet-card{padding:14px 14px 18px;border-color:color-mix(in srgb,var(--accent) 42%,rgba(91,122,162,.25));margin-bottom:14px}.handle{width:42px;height:5px;border-radius:50px;background:#2d3d52;margin:0 auto 12px}.sheet-title{display:flex;justify-content:space-between;align-items:center;gap:10px}.sheet-title small{color:#9fb1c9}.sheet-title h2{margin:3px 0 0;font-size:26px;color:var(--accent)}.sheet-title span{background:rgba(57,255,20,.12);color:#39ff14;border:1px solid rgba(57,255,20,.25);border-radius:999px;padding:8px 10px;font-size:12px}.sheet-card p{color:#c2cce0;margin:10px 0}.exercise-list{display:grid;gap:9px}.exercise-row{display:grid;grid-template-columns:84px 1fr auto;gap:12px;align-items:center;background:#0d1725;border:1px solid rgba(255,255,255,.08);border-radius:18px;padding:8px}.exercise-row img{width:84px;height:64px;object-fit:cover;border-radius:13px}.exercise-row b{display:block;font-size:15px}.exercise-row small{display:-webkit-box;-webkit-line-clamp:2;-webkit-box-orient:vertical;overflow:hidden;color:#aab8ca;font-size:12px;line-height:1.35}.exercise-row em{font-style:normal;color:#39ff14;font-size:12px}.primary-btn{display:block;text-align:center;background:#39ff14;color:#031006;border-radius:18px;padding:14px 18px;font-weight:900;margin-top:12px}.featured-card{display:grid;grid-template-columns:112px 1fr;gap:12px;padding:10px;align-items:center;margin-bottom:16px}.featured-card img{width:112px;height:88px;object-fit:cover;border-radius:18px}.featured-card small{color:#39ff14}.featured-card h3{margin:3px 0;font-size:20px}.featured-card p{margin:0;color:#aab8ca;font-size:13px}.bottom-nav{position:fixed;right:0;left:0;bottom:0;z-index:50;display:flex;justify-content:space-around;gap:4px;padding:10px 8px calc(10px + env(safe-area-inset-bottom));background:rgba(4,10,18,.92);border-top:1px solid rgba(255,255,255,.1);backdrop-filter:blur(18px)}.bottom-nav a{display:flex;flex-direction:column;align-items:center;gap:4px;color:#91a0b7;min-width:58px;font-size:24px}.bottom-nav small{font-size:11px}.bottom-nav .active{color:#39ff14;text-shadow:0 0 15px rgba(57,255,20,.6)}
+*{box-sizing:border-box} html{direction:rtl} body{margin:0;background:#061323;color:#fff;font-family:Arial,'Helvetica Neue',sans-serif} a{color:inherit;text-decoration:none} button{font-family:inherit}
+.mobile-app,.page-shell{min-height:100svh;background:radial-gradient(circle at top,#123e67 0,#071b2f 35%,#03070c 100%);padding:18px 14px 94px;max-width:520px;margin:0 auto;overflow-x:hidden}.home-blue{background:linear-gradient(180deg,#0b2e4f 0,#071b2f 42%,#03070c 100%)}.appbar{display:flex;align-items:center;justify-content:space-between;margin:2px 0 16px}.brand{display:flex;align-items:center;gap:10px}.brand span{width:42px;height:42px;border-radius:14px;background:linear-gradient(135deg,#39ff14,#0b66ff);display:grid;place-items:center;font-weight:900;color:#00130a}.new-brand img{width:54px;height:54px;border-radius:16px;object-fit:cover;box-shadow:0 0 20px rgba(57,255,20,.22)}.brand b{display:block;font-size:18px}.brand small{display:block;font-size:10px;color:#9fb1c9;letter-spacing:1.5px}.stats{display:flex;gap:12px;align-items:center;color:#dbeafe}.hero-card,.map-card,.sheet-card,.featured-card,.exercise-card,.info-card,.timer-card{background:rgba(7,20,37,.88);border:1px solid rgba(91,142,210,.25);box-shadow:0 20px 60px rgba(0,0,0,.25);border-radius:28px}.hero-card{padding:22px;display:flex;align-items:center;justify-content:space-between;margin-bottom:14px}.home-hero{background:linear-gradient(135deg,rgba(17,62,103,.96),rgba(7,27,47,.96));border-color:rgba(57,255,20,.18)}.hero-card small{color:#39ff14}.hero-card h1{margin:5px 0 0;font-size:28px;line-height:1.12}.hero-card a{background:#39ff14;color:#03100a;border-radius:16px;padding:12px 14px;font-weight:800;box-shadow:0 0 22px rgba(57,255,20,.32)}.map-card{padding:16px;margin-bottom:14px}.home-map-card{background:linear-gradient(180deg,rgba(9,31,55,.96),rgba(5,14,26,.96))}.card-head{display:flex;justify-content:space-between;gap:12px;align-items:flex-start}.card-head h2{font-size:26px;margin:0}.card-head p{margin:6px 0 0;color:#9fb1c9;line-height:1.45}.seg{display:flex;background:#0b1a2d;border:1px solid rgba(255,255,255,.12);border-radius:16px;padding:4px;direction:ltr}.seg button{border:0;background:transparent;color:#aab8ca;padding:9px 14px;border-radius:12px;font-weight:700}.seg .on{background:#39ff14;color:#041006;box-shadow:0 0 18px rgba(57,255,20,.42)}.body-wrap{position:relative;margin:14px auto 0;width:min(100%,340px);line-height:0}.body-photo{display:block;width:100%;height:auto;border-radius:20px;object-fit:contain;background:#07111d}.body-overlay{position:absolute;inset:0;width:100%;height:100%;pointer-events:none}.muscle-region{pointer-events:auto;cursor:pointer;mix-blend-mode:screen;transition:.18s ease;filter:drop-shadow(0 0 7px rgba(255,255,255,.16))}.muscle-region:hover{opacity:.95;filter:drop-shadow(0 0 12px rgba(57,255,20,.45))}.muscle-pills{display:flex;gap:8px;overflow:auto;padding:12px 2px 0}.muscle-pills button{border:1px solid color-mix(in srgb,var(--c) 55%,#1f3350);color:#dbeafe;background:rgba(4,13,24,.78);border-radius:999px;padding:9px 12px;white-space:nowrap}.muscle-pills .on{background:var(--c);color:#020812;font-weight:900}.sheet-card{padding:14px 14px 18px;border-color:color-mix(in srgb,var(--accent) 42%,rgba(91,122,162,.25));margin-bottom:14px}.handle{width:42px;height:5px;border-radius:50px;background:#2d3d52;margin:0 auto 12px}.sheet-title{display:flex;justify-content:space-between;align-items:center;gap:10px}.sheet-title small{color:#9fb1c9}.sheet-title h2{margin:3px 0 0;font-size:26px;color:var(--accent)}.sheet-title span{background:rgba(57,255,20,.12);color:#39ff14;border:1px solid rgba(57,255,20,.25);border-radius:999px;padding:8px 10px;font-size:12px}.sheet-card p{color:#c2cce0;margin:10px 0}.exercise-list{display:grid;gap:9px}.exercise-row{display:grid;grid-template-columns:84px 1fr auto;gap:12px;align-items:center;background:#0d1725;border:1px solid rgba(255,255,255,.08);border-radius:18px;padding:8px}.exercise-row img{width:84px;height:64px;object-fit:cover;border-radius:13px}.exercise-row b{display:block;font-size:15px}.exercise-row small{display:-webkit-box;-webkit-line-clamp:2;-webkit-box-orient:vertical;overflow:hidden;color:#aab8ca;font-size:12px;line-height:1.35}.exercise-row em{font-style:normal;color:#39ff14;font-size:12px}.primary-btn{display:block;text-align:center;background:#39ff14;color:#031006;border-radius:18px;padding:14px 18px;font-weight:900;margin-top:12px;box-shadow:0 0 20px rgba(57,255,20,.24)}.featured-card{display:grid;grid-template-columns:112px 1fr;gap:12px;padding:10px;align-items:center;margin-bottom:16px}.featured-card img{width:112px;height:88px;object-fit:cover;border-radius:18px}.featured-card small{color:#39ff14}.featured-card h3{margin:3px 0;font-size:20px}.featured-card p{margin:0;color:#aab8ca;font-size:13px}.bottom-nav{position:fixed;right:0;left:0;bottom:0;z-index:50;display:flex;justify-content:space-around;gap:4px;padding:10px 8px calc(10px + env(safe-area-inset-bottom));background:rgba(4,10,18,.92);border-top:1px solid rgba(57,255,20,.12);backdrop-filter:blur(18px)}.bottom-nav a{display:flex;flex-direction:column;align-items:center;gap:4px;color:#91a0b7;min-width:58px}.bottom-nav svg{color:currentColor;filter:none}.bottom-nav small{font-size:11px}.bottom-nav .active{color:#39ff14;text-shadow:0 0 15px rgba(57,255,20,.6)}.bottom-nav .active svg{filter:drop-shadow(0 0 10px rgba(57,255,20,.8))}
 .page-header{display:flex;align-items:center;gap:14px;margin-bottom:16px}.page-header>a{width:42px;height:42px;border-radius:14px;background:#101b2a;display:grid;place-items:center;font-size:26px}.page-header h1{margin:0;font-size:30px}.page-header p{margin:3px 0 0;color:#9fb1c9}.category-strip{display:flex;overflow:auto;gap:8px;padding-bottom:12px}.category-strip span{white-space:nowrap;border:1px solid color-mix(in srgb,var(--c) 55%,#233044);color:var(--c);border-radius:999px;padding:9px 12px;background:#0b1421}.exercise-grid{display:grid;gap:10px}.exercise-card{display:grid;grid-template-columns:96px 1fr;gap:12px;padding:9px}.exercise-card img{width:96px;height:78px;border-radius:16px;object-fit:cover}.exercise-card h2{font-size:17px;margin:2px 0}.exercise-card p{font-size:12px;line-height:1.35;color:#aab8ca;margin:0;display:-webkit-box;-webkit-line-clamp:2;-webkit-box-orient:vertical;overflow:hidden}.exercise-card footer{display:flex;gap:8px;margin-top:8px}.exercise-card span{color:#39ff14}.exercise-card small{color:#9fb1c9}.detail-hero{background:#09121f;border-radius:26px;overflow:hidden;border:1px solid rgba(255,255,255,.1);margin-bottom:14px}.detail-hero img{width:100%;height:245px;object-fit:cover}.detail-hero div{display:flex;align-items:center;gap:9px;padding:12px 14px}.detail-hero span{background:#103d21;color:#39ff14;border-radius:999px;padding:7px 10px}.detail-hero b{font-size:18px}.detail-hero small{color:#9fb1c9}.info-card{padding:16px;margin-bottom:12px}.info-card h2{margin:0 0 12px}.info-card li{margin:8px 0;color:#cbd5e1;line-height:1.45}.sticky{position:sticky;bottom:86px}.timer-card{text-align:center;padding:28px;margin-top:18px}.timer-card span{font-size:42px}.timer-card h2{font-size:58px;margin:10px 0;color:#39ff14}.timer-card button,.quick-timers button{background:#39ff14;color:#031006;border:0;border-radius:17px;padding:13px 18px;font-weight:900}.quick-timers{display:grid;grid-template-columns:1fr 1fr;gap:10px;margin-top:14px}.quick-timers button{background:#101b2a;color:#fff;border:1px solid rgba(57,255,20,.35)}
-@media(min-width:760px){.mobile-app,.page-shell{max-width:1120px}.mobile-app{display:grid;grid-template-columns:1fr 360px;gap:18px}.appbar,.hero-card,.bottom-nav{grid-column:1/-1}.sheet-card,.featured-card{align-self:start}.map-card{grid-row:2/span 3}.body-wrap{max-width:390px}.exercise-grid{grid-template-columns:repeat(2,1fr)}}
+@media(min-width:760px){.mobile-app,.page-shell{max-width:1120px}.mobile-app{display:grid;grid-template-columns:1fr 360px;gap:18px}.appbar,.hero-card,.bottom-nav{grid-column:1/-1}.sheet-card,.featured-card{align-self:start}.map-card{grid-row:2/span 3}.body-wrap{max-width:390px}.exercise-grid{grid-template-columns:repeat(2,1fr)}}/* HOME anatomy SVG update */
+.logo-brand img{width:48px;height:48px;object-fit:contain;border-radius:14px;filter:drop-shadow(0 0 14px rgba(57,255,20,.18))}.logo-brand span{display:none}.blue-hero{background:linear-gradient(135deg,#092342,#0b3b68 48%,#06121f);border-color:rgba(56,189,248,.24)}.body-wrap{isolation:isolate}.anatomy-overlay{mix-blend-mode:screen}.anatomy-region{pointer-events:auto;cursor:pointer;transition:opacity .18s ease,filter .18s ease,stroke-width .18s ease;filter:drop-shadow(0 0 6px rgba(0,0,0,.25))}.anatomy-region:hover,.anatomy-region.active{filter:drop-shadow(0 0 12px rgba(57,255,20,.38));opacity:1}.bottom-nav .active span,.bottom-nav .active small{color:#39ff14;text-shadow:0 0 16px rgba(57,255,20,.85)}
+
+

diff --git a/app/warmup/page.jsx b/app/warmup/page.jsx
@@ -1,0 +1,9 @@
+'use client';
+import Link from 'next/link';
+import {useEffect,useMemo,useState} from 'react';
+export default function WarmupPage(){
+  const [sec,setSec]=useState(45); const [run,setRun]=useState(false);
+  useEffect(()=>{if(!run||sec<=0)return; const t=setTimeout(()=>setSec(v=>v-1),1000); return()=>clearTimeout(t)},[run,sec]);
+  const time=useMemo(()=>`${String(Math.floor(sec/60)).padStart(2,'0')}:${String(sec%60).padStart(2,'0')}`,[sec]);
+  return <main className="warm-page"><header className="page-head"><Link href="/" className="back">‹</Link><div><h1>טיימר חימום</h1><p>בהמשך נוסיף תרגילי חימום מלאים.</p></div></header><section className="timer"><b>{time}</b><small>{run?'פעיל':'מוכן'}</small></section><div className="timer-actions"><button onClick={()=>setRun(!run)}>{run?'עצור':'התחל'}</button><button onClick={()=>{setRun(false);setSec(45)}}>איפוס</button></div><div className="chips timer-chips">{[30,45,60,90].map(s=><button key={s} onClick={()=>{setRun(false);setSec(s)}}>{s} שניות</button>)}</div><nav className="bottom-nav"><Link href="/"><span>⌂</span><small>בית</small></Link><Link href="/exercises"><span>◧</span><small>תרגילים</small></Link><Link href="/warmup" className="active"><span>⏱</span><small>חימום</small></Link><a><span>▥</span><small>התקדמות</small></a><a><span>○</span><small>פרופיל</small></a></nav></main>
+}

diff --git a/next.config.js b/next.config.js
@@ -1,5 +1,5 @@
 /** @type {import('next').NextConfig} */
 const nextConfig = {
-  trailingSlash: false
+  images: { unoptimized: true }
 };
 module.exports = nextConfig;

diff --git a/README.md b/README.md
@@ -1,11 +1,16 @@
-# Osher Calisthenics - Clean V9
+# Osher Calisthenics - Mobile Layout Fix
 
-פרויקט Next.js נקי, JavaScript בלבד, בלי TypeScript, בלי traps שגוי.
+עדכון מלא לפרויקט JavaScript נקי:
+- Home מותאם מובייל בלי חיתוך.
+- מפת שרירים וקטורית פנימית, מדויקת לעצמה ומופיעה תמיד.
+- עמוד תרגילים מסודר בכרטיסים קטנים: תמונה, שם, הסבר קצר, רמה וציוד.
+- תפריט תחתון עם אייקון + טקסט בעברית.
 
-## בדיקה מקומית
+בדיקה:
+```bash
 npm install
 npm run build
 npm run dev
+```
 
-## העלאה ל-GitHub
-העלה את כל תוכן התיקייה. לא להעלות node_modules, .next, out.
+לא להעלות ל-GitHub: node_modules, .next, out.